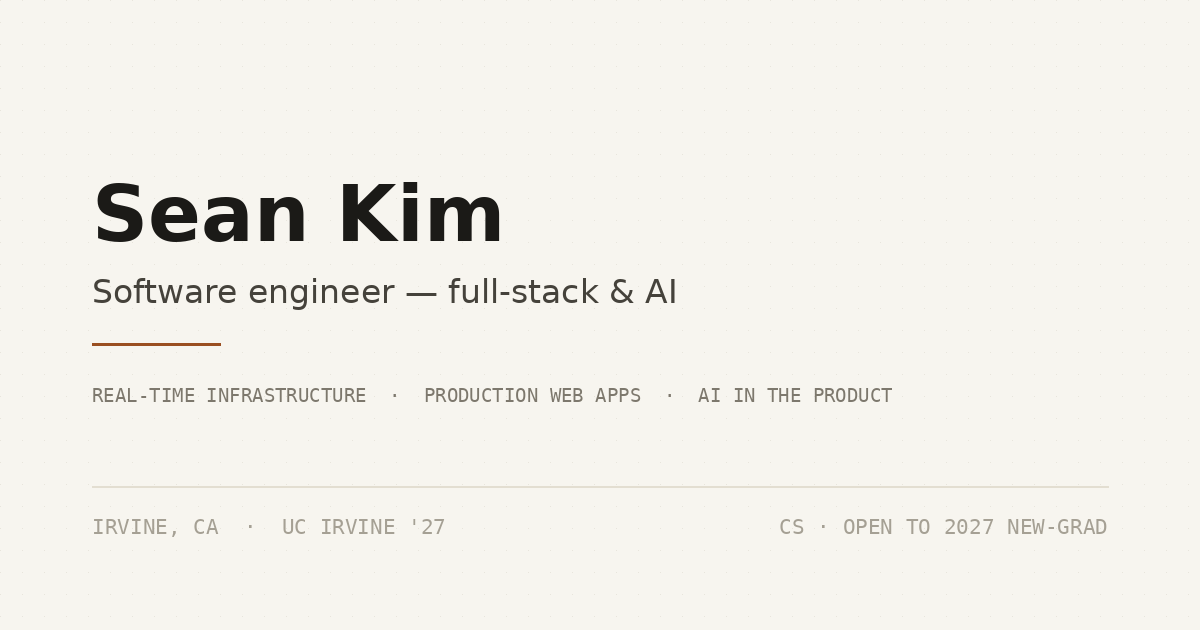
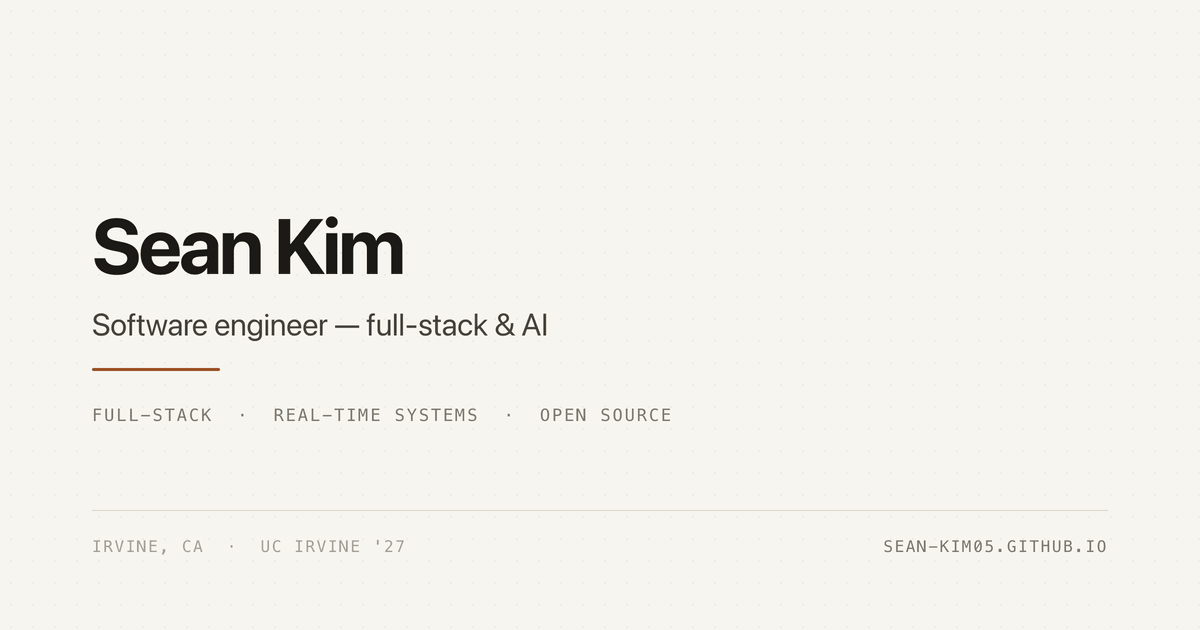
Refresh social card, hide old templates, add SEO files and heading semantics
The OG card still advertised "OPEN TO 2027 NEW-GRAD" — removed from the
site — and led with the old real-time-first framing. Regenerated both it
and the README banner to match the current positioning.

- assets/og.png + preview.png: rebuilt at 1200x630 in the site's own
  palette; tagline is now full-stack / real-time / open source, and the
  footer carries the URL instead of a stale availability line
- _config.yml: keep templates/, the PNG sources, and the tooling files in
  the repo but out of the published site — deleting .vercelignore had left
  the abandoned designs publicly reachable
- robots.txt + sitemap.xml: neither existed
- Section labels and entry titles are now real h2/h3/h4 elements instead
  of styled divs, so the pages have a navigable heading outline. CSS
  resets the UA defaults, so nothing moves.
- Simplify the open-source copy and drop the unused .prwhen rule

diff --git a/opensource.html b/opensource.html
@@ -45,123 +45,56 @@
 
     <main class="main">
       <h2 class="ptitle">Open source</h2>
-      <p class="psub">Patches merged into libraries I actually use. Mostly correctness work — edge cases that were quietly wrong, found while building something else and fixed upstream instead of worked around.</p>
-
-      <div class="metrics">
-        <div class="metric"><b>14</b><span class="mono">patches merged</span></div>
-        <div class="metric"><b>5</b><span class="mono">projects</span></div>
-        <div class="metric"><b>200k+</b><span class="mono">combined stars</span></div>
-      </div>
+      <p class="psub">Here are some of my contributions to libraries and repos I use.</p>
 
       <section>
-        <div class="shead mono">Merged</div>
-
         <div class="entry">
-          <div class="etop">
-            <div><span class="etitle">three.js</span> <span class="eorg">· JavaScript 3D library</span></div>
-            <span class="edate mono">114k ★ · 3 merged</span>
-          </div>
+          <div class="etop"><h3 class="etitle">three.js</h3></div>
           <ul class="prs">
-            <li>
-              <a href="https://github.com/mrdoob/three.js/pull/34035" target="_blank" rel="noopener"><span class="prnum mono">#34035</span> <span>AnimationObjectGroup: fix stale index bookkeeping in <code>uncache()</code> and <code>unsubscribe_()</code></span></a>
-              <span class="prwhen mono">Jul 2026</span>
-            </li>
-            <li>
-              <a href="https://github.com/mrdoob/three.js/pull/34034" target="_blank" rel="noopener"><span class="prnum mono">#34034</span> <span>TorusGeometry: forward <code>thetaStart</code> and <code>thetaLength</code> in <code>fromJSON()</code></span></a>
-              <span class="prwhen mono">Jul 2026</span>
-            </li>
-            <li>
-              <a href="https://github.com/mrdoob/three.js/pull/34016" target="_blank" rel="noopener"><span class="prnum mono">#34016</span> <span>Ray: handle empty spheres in <code>intersectSphere()</code></span></a>
-              <span class="prwhen mono">Jul 2026</span>
-            </li>
+            <li><a href="https://github.com/mrdoob/three.js/pull/34035" target="_blank" rel="noopener"><span class="prnum mono">#34035</span> <span>Animation groups were holding onto stale indices after uncaching</span></a></li>
+            <li><a href="https://github.com/mrdoob/three.js/pull/34034" target="_blank" rel="noopener"><span class="prnum mono">#34034</span> <span>Torus geometry quietly lost two of its parameters when reloaded from JSON</span></a></li>
+            <li><a href="https://github.com/mrdoob/three.js/pull/34016" target="_blank" rel="noopener"><span class="prnum mono">#34016</span> <span>Ray intersection broke on empty spheres</span></a></li>
           </ul>
         </div>
 
         <div class="entry">
-          <div class="etop">
-            <div><span class="etitle">Strix</span> <span class="eorg">· open-source AI penetration testing tool</span></div>
-            <span class="edate mono">51k ★ · 2 merged</span>
-          </div>
+          <div class="etop"><h3 class="etitle">Strix</h3></div>
           <ul class="prs">
-            <li>
-              <a href="https://github.com/usestrix/strix/pull/689" target="_blank" rel="noopener"><span class="prnum mono">#689</span> <span>Config: make env vars win over persisted JSON across all aliases</span></a>
-              <span class="prwhen mono">Jul 2026</span>
-            </li>
-            <li>
-              <a href="https://github.com/usestrix/strix/pull/687" target="_blank" rel="noopener"><span class="prnum mono">#687</span> <span>TUI: show “more content available” for <code>view_request</code> over 15 lines</span></a>
-              <span class="prwhen mono">Jul 2026</span>
-            </li>
+            <li><a href="https://github.com/usestrix/strix/pull/689" target="_blank" rel="noopener"><span class="prnum mono">#689</span> <span>Environment variables weren&rsquo;t overriding saved config the way they should</span></a></li>
+            <li><a href="https://github.com/usestrix/strix/pull/687" target="_blank" rel="noopener"><span class="prnum mono">#687</span> <span>Long request views got cut off with nothing telling you there was more</span></a></li>
           </ul>
         </div>
 
         <div class="entry">
-          <div class="etop">
-            <div><span class="etitle">Pydantic AI</span> <span class="eorg">· AI agent framework</span></div>
-            <span class="edate mono">19k ★ · 3 merged</span>
-          </div>
+          <div class="etop"><h3 class="etitle">Pydantic AI</h3></div>
           <ul class="prs">
-            <li>
-              <a href="https://github.com/pydantic/pydantic-ai/pull/7357" target="_blank" rel="noopener"><span class="prnum mono">#7357</span> <span>Gate <code>RetryPromptPart</code> OpenTelemetry content on <code>include_content</code></span></a>
-              <span class="prwhen mono">Aug 2026</span>
-            </li>
-            <li>
-              <a href="https://github.com/pydantic/pydantic-ai/pull/6466" target="_blank" rel="noopener"><span class="prnum mono">#6466</span> <span>Fix <code>has_values()</code> returning <code>True</code> for all-zero usage details</span></a>
-              <span class="prwhen mono">Jul 2026</span>
-            </li>
-            <li>
-              <a href="https://github.com/pydantic/pydantic-ai/pull/6462" target="_blank" rel="noopener"><span class="prnum mono">#6462</span> <span>Fix <code>RenamedToolset</code> silently dropping a tool on a name collision</span></a>
-              <span class="prwhen mono">Jul 2026</span>
-            </li>
+            <li><a href="https://github.com/pydantic/pydantic-ai/pull/7357" target="_blank" rel="noopener"><span class="prnum mono">#7357</span> <span>Telemetry was recording prompt content even when you&rsquo;d asked it not to</span></a></li>
+            <li><a href="https://github.com/pydantic/pydantic-ai/pull/6466" target="_blank" rel="noopener"><span class="prnum mono">#6466</span> <span>Usage details reported as present when every value was zero</span></a></li>
+            <li><a href="https://github.com/pydantic/pydantic-ai/pull/6462" target="_blank" rel="noopener"><span class="prnum mono">#6462</span> <span>Renaming a toolset silently dropped a tool when two names collided</span></a></li>
           </ul>
         </div>
 
         <div class="entry">
-          <div class="etop">
-            <div><span class="etitle">redis-py</span> <span class="eorg">· official Redis Python client</span></div>
-            <span class="edate mono">13.6k ★ · 1 merged</span>
-          </div>
+          <div class="etop"><h3 class="etitle">redis-py</h3></div>
           <ul class="prs">
-            <li>
-              <a href="https://github.com/redis/redis-py/pull/4167" target="_blank" rel="noopener"><span class="prnum mono">#4167</span> <span>Add context manager support to <code>ConnectionPool</code></span></a>
-              <span class="prwhen mono">Jul 2026</span>
-            </li>
+            <li><a href="https://github.com/redis/redis-py/pull/4167" target="_blank" rel="noopener"><span class="prnum mono">#4167</span> <span>Connection pools couldn&rsquo;t be used with a <code>with</code> block</span></a></li>
           </ul>
         </div>
 
         <div class="entry">
-          <div class="etop">
-            <div><span class="etitle">Prometheus Python client</span> <span class="eorg">· official instrumentation library</span></div>
-            <span class="edate mono">4.3k ★ · 5 merged</span>
-          </div>
+          <div class="etop"><h3 class="etitle">Prometheus Python client</h3></div>
           <ul class="prs">
-            <li>
-              <a href="https://github.com/prometheus/client_python/pull/1192" target="_blank" rel="noopener"><span class="prnum mono">#1192</span> <span>Parse the native histogram sum as a float</span></a>
-              <span class="prwhen mono">Jul 2026</span>
-            </li>
-            <li>
-              <a href="https://github.com/prometheus/client_python/pull/1191" target="_blank" rel="noopener"><span class="prnum mono">#1191</span> <span>Remove nameless collectors from the registry on unregister</span></a>
-              <span class="prwhen mono">Jul 2026</span>
-            </li>
-            <li>
-              <a href="https://github.com/prometheus/client_python/pull/1188" target="_blank" rel="noopener"><span class="prnum mono">#1188</span> <span>Fix operator precedence allowing exemplars on any metric type</span></a>
-              <span class="prwhen mono">Jul 2026</span>
-            </li>
-            <li>
-              <a href="https://github.com/prometheus/client_python/pull/1190" target="_blank" rel="noopener"><span class="prnum mono">#1190</span> <span>Do not emit a leading zero in <code>floatToGoString</code> exponents ≥ 10</span></a>
-              <span class="prwhen mono">Jul 2026</span>
-            </li>
-            <li>
-              <a href="https://github.com/prometheus/client_python/pull/1189" target="_blank" rel="noopener"><span class="prnum mono">#1189</span> <span>Validate Enum arguments before registering the collector</span></a>
-              <span class="prwhen mono">Jul 2026</span>
-            </li>
+            <li><a href="https://github.com/prometheus/client_python/pull/1192" target="_blank" rel="noopener"><span class="prnum mono">#1192</span> <span>Native histogram sums were parsed as the wrong type</span></a></li>
+            <li><a href="https://github.com/prometheus/client_python/pull/1191" target="_blank" rel="noopener"><span class="prnum mono">#1191</span> <span>Unregistering a collector left nameless ones behind in the registry</span></a></li>
+            <li><a href="https://github.com/prometheus/client_python/pull/1188" target="_blank" rel="noopener"><span class="prnum mono">#1188</span> <span>An operator precedence bug let exemplars onto any metric type</span></a></li>
+            <li><a href="https://github.com/prometheus/client_python/pull/1190" target="_blank" rel="noopener"><span class="prnum mono">#1190</span> <span>Exponents of 10 or more came out with an extra leading zero</span></a></li>
+            <li><a href="https://github.com/prometheus/client_python/pull/1189" target="_blank" rel="noopener"><span class="prnum mono">#1189</span> <span>Bad Enum arguments weren&rsquo;t caught until after the collector registered</span></a></li>
           </ul>
         </div>
       </section>
 
       <section>
-        <div class="shead mono">In review</div>
-        <p class="pnote">Open patches under review at <strong>Anthropic&rsquo;s Python SDK</strong>, <strong>Ollama</strong>, <strong>ComfyUI</strong>, <strong>redis-py</strong>, and the <strong>Prometheus Python client</strong>.</p>
-        <div class="etags"><span><a href="https://github.com/sean-kim05" target="_blank" rel="noopener">github.com/sean-kim05 ↗</a></span></div>
+        <p class="pnote">A few more are open at Anthropic&rsquo;s Python SDK, Ollama, and ComfyUI. Everything&rsquo;s on <a class="plink" href="https://github.com/sean-kim05" target="_blank" rel="noopener">my GitHub ↗</a>.</p>
       </section>
 
       <footer>

diff --git a/experience.html b/experience.html
@@ -48,11 +48,11 @@
       <p class="psub">Two internships and a research post. Backend and real-time systems, mostly — plus whatever the product needed that week.</p>
 
       <section>
-        <div class="shead mono">Work</div>
+        <h3 class="shead mono">Work</h3>
 
         <div class="entry">
           <div class="etop">
-            <div><span class="etitle">Software Engineer Intern</span> <span class="eorg">· MIADVG</span></div>
+            <div><h4 class="etitle">Software Engineer Intern</h4> <span class="eorg">· MIADVG</span></div>
             <span class="edate mono">Jun–Sep 2025</span>
           </div>
           <ul>
@@ -66,7 +66,7 @@
 
         <div class="entry">
           <div class="etop">
-            <div><span class="etitle">Software Developer Intern</span> <span class="eorg">· CALIT2, UC Irvine</span></div>
+            <div><h4 class="etitle">Software Developer Intern</h4> <span class="eorg">· CALIT2, UC Irvine</span></div>
             <span class="edate mono">Jan–May 2025</span>
           </div>
           <ul>
@@ -79,7 +79,7 @@
 
         <div class="entry">
           <div class="etop">
-            <div><span class="etitle">Undergraduate Research Assistant</span> <span class="eorg">· UC Irvine</span></div>
+            <div><h4 class="etitle">Undergraduate Research Assistant</h4> <span class="eorg">· UC Irvine</span></div>
             <span class="edate mono">Jan–Jun 2024</span>
           </div>
           <ul>
@@ -91,10 +91,10 @@
       </section>
 
       <section>
-        <div class="shead mono">Education</div>
+        <h3 class="shead mono">Education</h3>
         <div class="entry">
           <div class="etop">
-            <div><span class="etitle">B.S. Computer Science</span> <span class="eorg">· University of California, Irvine</span></div>
+            <div><h4 class="etitle">B.S. Computer Science</h4> <span class="eorg">· University of California, Irvine</span></div>
             <span class="edate mono">Expected Jun 2027</span>
           </div>
           <ul>
@@ -104,7 +104,7 @@
       </section>
 
       <section>
-        <div class="shead mono">Open source</div>
+        <h3 class="shead mono">Open source</h3>
         <p class="pnote"><strong>14 patches merged</strong> into <strong>three.js</strong>, <strong>Strix</strong>, <strong>Pydantic AI</strong>, <strong>redis-py</strong>, and the <strong>Prometheus Python client</strong> — mostly correctness fixes in edge-case handling. More in review at Anthropic&rsquo;s Python SDK, Ollama, and ComfyUI.</p>
         <div class="etags"><span><a href="opensource.html">every merged patch →</a></span></div>
       </section>

diff --git a/index.html b/index.html
@@ -46,7 +46,7 @@
     <main class="main">
       <div class="intro">
         <p><strong>Hi! I&rsquo;m Sean.</strong> I&rsquo;m studying Computer Science at UC Irvine, graduating in 2027.</p>
-        <p>I do <strong>full-stack software engineering</strong> — most recently three production React and Next.js apps serving 50,000+ users. What I keep coming back to is the <strong>real-time</strong> side of it: keeping 50 people in sync inside a shared editor, streaming live camera detections to a dashboard, and the Redis and Postgres plumbing that holds it all up.</p>
+        <p>I do <strong>full-stack software engineering</strong> — most recently three production React and Next.js apps serving 50,000+ users. What I like most is the <strong>real-time</strong> work — keeping 50 people in sync in a shared editor, streaming live camera detections to a dashboard, and the Redis and Postgres underneath it.</p>
         <p>Right now I&rsquo;m building an agent runtime and a research assistant of my own, and fixing bugs in the open-source libraries I depend on. Thanks for visiting!</p>
       </div>
 
@@ -62,7 +62,7 @@
       </section>
 
       <section>
-        <div class="shead mono">Currently</div>
+        <h2 class="shead mono">Currently</h2>
         <ul class="quick">
           <li><span class="qn"><strong>Ada</strong> — an agent OS that plans, acts, and shows its work</span><span class="qd mono">in progress</span></li>
           <li><span class="qn"><a class="qlink" href="opensource.html"><strong>Open source</strong> — patches merged into the libraries I use <span class="arw">→</span></a></span><span class="qd mono">ongoing</span></li>
@@ -71,7 +71,7 @@
       </section>
 
       <section>
-        <div class="shead mono">Skills</div>
+        <h2 class="shead mono">Skills</h2>
         <div class="srow"><div class="lbl mono">Languages</div><div class="val">Python · JavaScript · TypeScript · Java · C++ · SQL · HTML/CSS</div></div>
         <div class="srow"><div class="lbl mono">Frameworks</div><div class="val">React · Next.js · Node/Express · Flask · FastAPI · Tailwind · WebSockets</div></div>
         <div class="srow"><div class="lbl mono">Data</div><div class="val">PostgreSQL · MySQL · Redis · Pinecone · Qdrant · Vector search</div></div>

diff --git a/style.css b/style.css
@@ -90,14 +90,15 @@ a { color: inherit; text-decoration: none; }
 
 section { margin-top: 56px; scroll-margin-top: 40px; }
 section:first-of-type { margin-top: 0; }
-.shead { display: flex; align-items: center; gap: 14px; color: var(--faint); margin-bottom: 26px; }
+/* section labels are real headings — these reset the UA defaults so they look unchanged */
+.shead { display: flex; align-items: center; gap: 14px; color: var(--faint); margin: 0 0 26px; font-weight: 500; }
 .shead::after { content: ""; flex: 1; height: 1px; background: var(--line); }
 
 /* entries */
 .entry { padding-bottom: 26px; margin-bottom: 26px; border-bottom: 1px solid var(--hair); }
 .entry:last-child { border-bottom: 0; padding-bottom: 0; margin-bottom: 0; }
 .etop { display: flex; justify-content: space-between; align-items: baseline; gap: 16px; flex-wrap: wrap; }
-.etitle { font-weight: 600; font-size: 16px; }
+.etitle { font-weight: 600; font-size: 16px; margin: 0; display: inline; }
 .eorg { color: var(--mut); }
 .edate { color: var(--faint); white-space: nowrap; }
 .entry ul { margin: 11px 0 0; padding-left: 0; list-style: none; }
@@ -110,7 +111,7 @@ section:first-of-type { margin-top: 0; }
 .proj:last-of-type { border-bottom: 0; }
 .pnum { color: var(--faint); padding-top: 4px; }
 .ptop { display: flex; align-items: baseline; gap: 12px; flex-wrap: wrap; }
-.pname { font-weight: 600; font-size: 16px; }
+.pname { font-weight: 600; font-size: 16px; margin: 0; }
 .plink { color: var(--mut); border-bottom: 1px solid var(--line); transition: color .18s ease, border-color .18s ease; }
 .plink:hover { color: var(--ac); border-color: var(--ac); }
 .plock { color: var(--faint); }
@@ -164,7 +165,6 @@ section:first-of-type { margin-top: 0; }
 .prs a:hover { color: var(--ac); }
 .prs a:hover .prnum { color: var(--ac); }
 .prs .prnum { color: var(--faint); font-size: 11.5px; letter-spacing: .02em; text-transform: none; flex: none; }
-.prs .prwhen { color: var(--faint); font-size: 11px; white-space: nowrap; flex: none; }
 .prs code {
   font-family: ui-monospace, SFMono-Regular, Menlo, Consolas, monospace;
   font-size: 12.5px; background: var(--panel); border: 1px solid var(--line);

diff --git a/projects.html b/projects.html
@@ -52,7 +52,7 @@
           <div class="pnum mono">01</div>
           <div>
             <div class="ptop">
-              <span class="pname">CollabCode</span>
+              <h3 class="pname">CollabCode</h3>
               <a class="plink" href="https://collaborative-code-editor-livid.vercel.app" target="_blank" rel="noopener">live demo ↗</a>
               <a class="plink" href="https://github.com/sean-kim05/collaborative-code-editor" target="_blank" rel="noopener">source ↗</a>
             </div>
@@ -73,7 +73,7 @@
           <div class="pnum mono">02</div>
           <div>
             <div class="ptop">
-              <span class="pname">Ada</span>
+              <h3 class="pname">Ada</h3>
               <span class="plock mono">in progress</span>
             </div>
             <img class="pshot" src="assets/ada.webp" width="1440" height="900" loading="lazy" decoding="async" alt="Ada dashboard with a live agent trace panel"/>
@@ -87,7 +87,7 @@
           <div class="pnum mono">03</div>
           <div>
             <div class="ptop">
-              <span class="pname">Docent</span>
+              <h3 class="pname">Docent</h3>
               <a class="plink" href="https://ask-docent.vercel.app" target="_blank" rel="noopener">live demo ↗</a>
               <a class="plink" href="https://github.com/sean-kim05/agentic-research-assistant" target="_blank" rel="noopener">source ↗</a>
             </div>
@@ -103,7 +103,7 @@
           <div class="pnum mono">04</div>
           <div>
             <div class="ptop">
-              <span class="pname">Briefly</span>
+              <h3 class="pname">Briefly</h3>
               <a class="plink" href="https://briefly.skim8705.workers.dev" target="_blank" rel="noopener">live demo ↗</a>
               <a class="plink" href="https://github.com/sean-kim05/briefly" target="_blank" rel="noopener">source ↗</a>
             </div>
